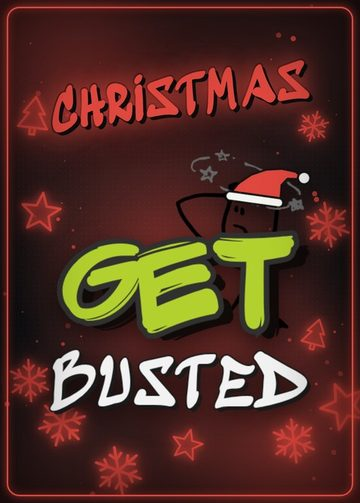
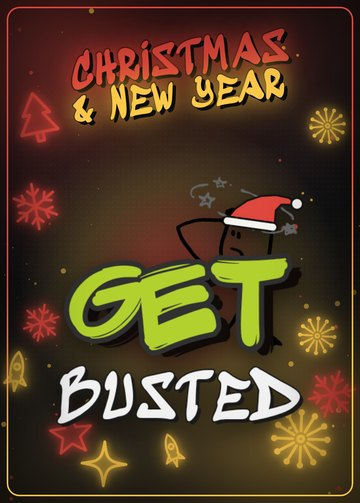
Nytt omslag: Jul og nyttår (rødt og gull, raketter og fyrverkeri), egne versjoner på sv, da og en
Claude-Session: https://claude.ai/code/session_01DZ718GXTXVtGR8cwb9rukA

diff --git a/se/index.html b/se/index.html
@@ -53,7 +53,7 @@
     </div>
     <div class="stage" aria-hidden="true">
       <img class="cover l" src="/img/cover_halloween.jpg" alt="" style="--c:#FF8A1F" width="360" height="503">
-      <img class="cover r" src="/img/cover_jul.jpg" alt="" style="--c:#E0473E" width="360" height="503">
+      <img class="cover r" src="/img/cover_jul_sv.jpg" alt="" style="--c:#E0473E" width="360" height="503">
       <!--heltekort--><div class="card hk" data-hk><div class="hk-in"><p class="hk-h">På tre - peka på den som</p><p class="hk-b" style="--fs:12.5cqw">frågar efter wifi-lösenordet i en stuga utan rinnande vatten</p><p class="hk-f">Den med flest pekningar får 2 poäng</p></div><p class="hk-t">@getbusted.no</p></div>
 <script>
 (function(){var c=document.querySelector("[data-hk]");if(!c)return;var K=[{"h":"På tre - peka på den som","b":"frågar efter wifi-lösenordet i en stuga utan rinnande vatten","f":"Den med flest pekningar får 2 poäng","s":12.5},{"h":"På tre - peka på den som","b":"skickar Swish-förfrågan för en kaffe","f":"Den med flest pekningar får 2 poäng","s":12.5},{"h":"På tre - peka på den som","b":"somnar först i soffan under Kalle Anka","f":"Den med flest pekningar får 2 poäng","s":12.5},{"h":"På tre - peka på den som","b":"säger att de ska vara offline hela helgen och lägger upp tre stories första kvällen","f":"Den med flest pekningar får 2 poäng","s":9.5},{"h":"På tre - peka på den som","b":"kallar sig skidåkare efter en helg i Sälen","f":"Den med flest pekningar får 2 poäng","s":12.5},{"h":"På tre - peka på den som","b":"somnar först, mitt i ett parti Monopol","f":"Den med flest pekningar får 2 poäng","s":12.5},{"h":"På tre - peka på den som","b":"bråkar om senapen på julskinkan som om det vore politik","f":"Den med flest pekningar får 2 poäng","s":12.5},{"h":"På tre - peka på den som","b":"tycker halloween är amerikanskt trams men är mest utklädd ändå","f":"Den med flest pekningar får 2 poäng","s":11}];var k=K[Math.floor(Math.random()*K.length)];var i=c.querySelector(".hk-in"),h=c.querySelector(".hk-h"),b=c.querySelector(".hk-b"),f=c.querySelector(".hk-f");h.textContent=k.h;b.textContent=k.b;f.textContent=k.f;f.hidden=!k.f;function fit(){var s=k.s;b.style.setProperty("--fs",s+"cqw");while(s>5&&(i.scrollHeight>i.clientHeight+1||b.scrollWidth>b.clientWidth+1)){s-=.5;b.style.setProperty("--fs",s+"cqw")}}fit();if(document.fonts&&document.fonts.ready)document.fonts.ready.then(fit)})();
@@ -101,7 +101,7 @@
     <div class='group'><h3 data-launch="group">Från start</h3><div class='packs'>
       <div class='pack' data-pack='original' style='--c:#B7D147'><picture><source srcset='/img/cover_original.webp' type='image/webp'><img src='/img/cover_original.jpg' alt='' width='360' height='503' loading='lazy'></picture><b>Original</b><small>50 gratis kort varje kväll</small></div>
       <div class='pack' data-pack='halloween' style='--c:#FF8A1F'><picture><source srcset='/img/cover_halloween.webp' type='image/webp'><img src='/img/cover_halloween.jpg' alt='' width='360' height='503' loading='lazy'></picture><b>Halloween</b><span>Maskerad och skräckfilm</span><small>168 kort</small></div>
-      <div class='pack' data-pack='jul' style='--c:#E0473E'><picture><source srcset='/img/cover_jul.webp' type='image/webp'><img src='/img/cover_jul.jpg' alt='' width='360' height='503' loading='lazy'></picture><b>Jul</b><span>Julbord och Kalle Anka</span><small>194 kort</small></div>
+      <div class='pack' data-pack='jul' style='--c:#E0473E'><picture><source srcset='/img/cover_jul_sv.webp' type='image/webp'><img src='/img/cover_jul_sv.jpg' alt='' width='360' height='503' loading='lazy'></picture><b>Jul</b><span>Julbord och Kalle Anka</span><small>194 kort</small></div>
       <div class='pack' data-pack='nach' style='--c:#8E7CFF'><picture><source srcset='/img/cover_nach_sv.webp' type='image/webp'><img src='/img/cover_nach_sv.jpg' alt='' width='360' height='503' loading='lazy'></picture><b>Efterfest</b><span>När klockan är tre</span><small>166 kort</small></div>
       <div class='pack' data-pack='hytta' style='--c:#C7864A'><picture><source srcset='/img/cover_hytta_sv.webp' type='image/webp'><img src='/img/cover_hytta_sv.jpg' alt='' width='360' height='503' loading='lazy'></picture><b>Stugan</b><span>Bastu och noll täckning</span><small>175 kort</small></div>
     </div></div><div class='group'><h3>Hösten och vintern</h3><div class='packs'>

diff --git a/dk/index.html b/dk/index.html
@@ -53,7 +53,7 @@
     </div>
     <div class="stage" aria-hidden="true">
       <img class="cover l" src="/img/cover_halloween.jpg" alt="" style="--c:#FF8A1F" width="360" height="503">
-      <img class="cover r" src="/img/cover_jul.jpg" alt="" style="--c:#E0473E" width="360" height="503">
+      <img class="cover r" src="/img/cover_jul_da.jpg" alt="" style="--c:#E0473E" width="360" height="503">
       <!--heltekort--><div class="card hk" data-hk><div class="hk-in"><p class="hk-h">På tre - peg på den der</p><p class="hk-b" style="--fs:12.5cqw">kalder alt vest for Valby for «Jylland»</p><p class="hk-f">Den, flest peger på, får 2 point</p></div><p class="hk-t">@getbusted.no</p></div>
 <script>
 (function(){var c=document.querySelector("[data-hk]");if(!c)return;var K=[{"h":"På tre - peg på den der","b":"kalder alt vest for Valby for «Jylland»","f":"Den, flest peger på, får 2 point","s":12.5},{"h":"På tre - peg på den der","b":"har flest ubetalte MobilePay-anmodninger liggende","f":"Den, flest peger på, får 2 point","s":12.5},{"h":"På tre - peg på den der","b":"siger «vi giver ikke gaver i år» og så alligevel køber noget","f":"Den, flest peger på, får 2 point","s":12.5},{"h":"På tre - peg på den der","b":"siger «halloween er amerikansk pjat» men har planlagt sit kostume siden august","f":"Den, flest peger på, får 2 point","s":9.5},{"h":"På tre - peg på den der","b":"forsvinder, når der skal gøres rent til aflevering","f":"Den, flest peger på, får 2 point","s":12.5},{"h":"På tre - peg på den der","b":"falder i søvn, før kongens nytårstale er slut","f":"Den, flest peger på, får 2 point","s":12.5},{"h":"På tre - peg på den der","b":"regner fællesspisningen ud på MobilePay ned til 50 øre","f":"Den, flest peger på, får 2 point","s":9.1},{"h":"På tre - peg på den der","b":"stadig får pakkekalender af sin mor","f":"Den, flest peger på, får 2 point","s":11.1}];var k=K[Math.floor(Math.random()*K.length)];var i=c.querySelector(".hk-in"),h=c.querySelector(".hk-h"),b=c.querySelector(".hk-b"),f=c.querySelector(".hk-f");h.textContent=k.h;b.textContent=k.b;f.textContent=k.f;f.hidden=!k.f;function fit(){var s=k.s;b.style.setProperty("--fs",s+"cqw");while(s>5&&(i.scrollHeight>i.clientHeight+1||b.scrollWidth>b.clientWidth+1)){s-=.5;b.style.setProperty("--fs",s+"cqw")}}fit();if(document.fonts&&document.fonts.ready)document.fonts.ready.then(fit)})();
@@ -101,7 +101,7 @@
     <div class='group'><h3 data-launch="group">Fra start</h3><div class='packs'>
       <div class='pack' data-pack='original' style='--c:#B7D147'><picture><source srcset='/img/cover_original.webp' type='image/webp'><img src='/img/cover_original.jpg' alt='' width='360' height='503' loading='lazy'></picture><b>Original</b><small>50 gratis kort hver aften</small></div>
       <div class='pack' data-pack='halloween' style='--c:#FF8A1F'><picture><source srcset='/img/cover_halloween.webp' type='image/webp'><img src='/img/cover_halloween.jpg' alt='' width='360' height='503' loading='lazy'></picture><b>Halloween</b><span>Udklædning og gyserfilm</span><small>163 kort</small></div>
-      <div class='pack' data-pack='jul' style='--c:#E0473E'><picture><source srcset='/img/cover_jul.webp' type='image/webp'><img src='/img/cover_jul.jpg' alt='' width='360' height='503' loading='lazy'></picture><b>Jul</b><span>Julefrokost og nytår</span><small>194 kort</small></div>
+      <div class='pack' data-pack='jul' style='--c:#E0473E'><picture><source srcset='/img/cover_jul_da.webp' type='image/webp'><img src='/img/cover_jul_da.jpg' alt='' width='360' height='503' loading='lazy'></picture><b>Jul</b><span>Julefrokost og nytår</span><small>194 kort</small></div>
       <div class='pack' data-pack='nach' style='--c:#8E7CFF'><picture><source srcset='/img/cover_nach_da.webp' type='image/webp'><img src='/img/cover_nach_da.jpg' alt='' width='360' height='503' loading='lazy'></picture><b>Efterfest</b><span>Når klokken er tre</span><small>177 kort</small></div>
       <div class='pack' data-pack='hytta' style='--c:#C7864A'><picture><source srcset='/img/cover_hytta_da.webp' type='image/webp'><img src='/img/cover_hytta_da.jpg' alt='' width='360' height='503' loading='lazy'></picture><b>Sommerhuset</b><span>Vildmarksbad og ingen dækning</span><small>173 kort</small></div>
     </div></div><div class='group'><h3>Efteråret og vinteren</h3><div class='packs'>

diff --git a/se/julbord/index.html b/se/julbord/index.html
@@ -46,7 +46,7 @@
       <p class="lead">Julfest med jobbet, julbord med gänget eller mellandagarna i hemstan. Jul-paketet gör kvällen till den alla pratar om i januari.</p>
       <p class="note">För vuxna 18+. Alkoholfritt läge finns alltid med. <a href="/se/">Mer om Get Busted</a>.</p>
     </div>
-    <div class="stage lp-stage" aria-hidden="true"><img class="cover" src="/img/cover_jul.jpg" alt="" style="--c:#E0473E" width="360" height="503"></div>
+    <div class="stage lp-stage" aria-hidden="true"><img class="cover" src="/img/cover_jul_sv.jpg" alt="" style="--c:#E0473E" width="360" height="503"></div>
   </div>
 </section>
 

diff --git a/dk/julefrokost/index.html b/dk/julefrokost/index.html
@@ -46,7 +46,7 @@
       <p class="lead">Firmajulefrokost, vennejulefrokost eller mellem jul og nytår i hjembyen. Jul-pakken gør aftenen til den, alle snakker om i januar.</p>
       <p class="note">For voksne 18+. Alkoholfri tilstand er altid med. <a href="/dk/">Mere om Get Busted</a>.</p>
     </div>
-    <div class="stage lp-stage" aria-hidden="true"><img class="cover" src="/img/cover_jul.jpg" alt="" style="--c:#E0473E" width="360" height="503"></div>
+    <div class="stage lp-stage" aria-hidden="true"><img class="cover" src="/img/cover_jul_da.jpg" alt="" style="--c:#E0473E" width="360" height="503"></div>
   </div>
 </section>
 

diff --git a/build.py b/build.py
@@ -122,7 +122,7 @@ T = {
   packsLead='Varje paket har egna svenska kort, skrivna i Sverige för svenskar. Testa 5 kort från valfritt paket gratis innan du köper.',
   packs=[('original', 'cover_original.jpg', 'Original', '50 gratis kort varje kväll', None),
          ('halloween', 'cover_halloween.jpg', 'Halloween', 'Maskerad och skräckfilm', None),
-         ('jul', 'cover_jul.jpg', 'Jul', 'Julbord och Kalle Anka', None),
+         ('jul', 'cover_jul_sv.jpg', 'Jul', 'Julbord och Kalle Anka', None),
          ('nach', 'cover_nach_sv.jpg', 'Efterfest', 'När klockan är tre', None),
          ('hytta', 'cover_hytta_sv.jpg', 'Stugan', 'Bastu och noll täckning', None),
          ('reise', 'cover_reise_sv.jpg', 'Resa', 'Charter och Finlandsbåten', True),
@@ -191,7 +191,7 @@ T = {
   packsLead='Fem pakker er klar fra start, og flere kommer hen over efteråret. Prøv 5 kort fra en hvilken som helst pakke gratis, før du køber.',
   packs=[('original', 'cover_original.jpg', 'Original', '50 gratis kort hver aften', None),
          ('halloween', 'cover_halloween.jpg', 'Halloween', 'Udklædning og gyserfilm', None),
-         ('jul', 'cover_jul.jpg', 'Jul', 'Julefrokost og nytår', None),
+         ('jul', 'cover_jul_da.jpg', 'Jul', 'Julefrokost og nytår', None),
          ('nach', 'cover_nach_da.jpg', 'Efterfest', 'Når klokken er tre', None),
          ('hytta', 'cover_hytta_da.jpg', 'Sommerhuset', 'Vildmarksbad og ingen dækning', None),
          ('reise', 'cover_reise_da.jpg', 'Rejse', 'Charter og billigfly', True),
@@ -1085,7 +1085,7 @@ def home(t):
     later = [x for x in t['packs'] if x[4]]
     groups = [(u['groups'][0], start), (u['groups'][1], later)] + ([(u['groups'][2], t['specials'])] if t['specials'] else [])
     packs_html = ''.join(f"<div class='group'><h3{GROUP_ATTR if i == 0 else ''}>{E(g)}</h3><div class='packs'>\n      {packs(lst, t)}\n    </div></div>" for i, (g, lst) in enumerate(groups))
-    jul = 'cover_jul_en.jpg' if L == 'en' else 'cover_jul.jpg'
+    jul = {'en': 'cover_jul_en.jpg', 'sv': 'cover_jul_sv.jpg', 'da': 'cover_jul_da.jpg'}.get(L, 'cover_jul.jpg')
     h1a, h1b, h1c = u['h1']
     apple = '<svg viewBox="0 0 24 24" aria-hidden="true"><path d="M16.4 12.6c0-2.6 2.1-3.8 2.2-3.9-1.2-1.8-3.1-2-3.7-2-1.6-.2-3.1.9-3.9.9-.8 0-2-.9-3.4-.9-1.7 0-3.3 1-4.2 2.6-1.8 3.1-.5 7.7 1.3 10.2.8 1.2 1.8 2.6 3.1 2.5 1.3-.1 1.7-.8 3.2-.8s1.9.8 3.2.8c1.3 0 2.2-1.2 3-2.4.9-1.4 1.3-2.7 1.3-2.8-.1 0-2.6-1-2.6-4.2zM13.9 5c.7-.8 1.1-1.9 1-3-1 0-2.1.6-2.8 1.4-.6.7-1.2 1.8-1 2.9 1 .1 2.1-.5 2.8-1.3z"/></svg>'
     play = '<svg viewBox="0 0 24 24" aria-hidden="true"><path d="M3.6 1.8c-.3.3-.4.7-.4 1.3v17.8c0 .6.1 1 .4 1.3l.1.1 10-10v-.2l-10-10.4zM17 15.6l-3.3-3.3v-.2L17 8.7l.1.1 3.9 2.2c1.1.6 1.1 1.7 0 2.3l-3.9 2.2-.1.1zm-.1.1L13.6 12 3.6 22c.4.4 1 .4 1.7.1l11.6-6.4M16.9 8.3 5.3 1.7c-.7-.4-1.3-.3-1.7.1l10 10 3.3-3.5z"/></svg>'
@@ -1201,7 +1201,7 @@ LP_ALT = {
  'wed':   {'en': '/stag-and-hen/', 'sv': '/se/svensexa-mohippa/', 'da': '/dk/polterabend/', 'no': 'https://getbusted.no/utdrikningslag/'},
 }
 LP_COLOR = {'xmas': '#E0473E', 'cabin': '#C7864A', 'wed': '#E94B8A'}
-LP_COVER = {'xmas': {'en': 'cover_jul_en.jpg', 'sv': 'cover_jul.jpg', 'da': 'cover_jul.jpg'},
+LP_COVER = {'xmas': {'en': 'cover_jul_en.jpg', 'sv': 'cover_jul_sv.jpg', 'da': 'cover_jul_da.jpg'},
             'cabin': {'en': 'cover_hytta_en.jpg', 'sv': 'cover_hytta_sv.jpg', 'da': 'cover_hytta_da.jpg'},
             'wed': {'en': 'cover_utdrikning_en.jpg', 'sv': 'cover_utdrikning_sv.jpg', 'da': 'cover_utdrikning_da.jpg'}}
 PK = {'en': 'On three, point at the one who', 'sv': 'På tre - peka på den som', 'da': 'På tre - peg på den, der'}
